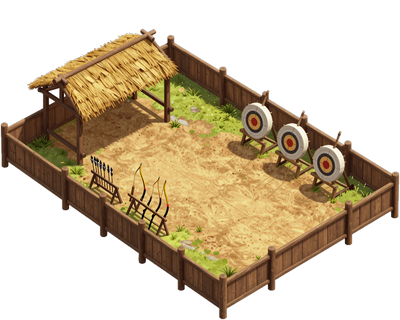
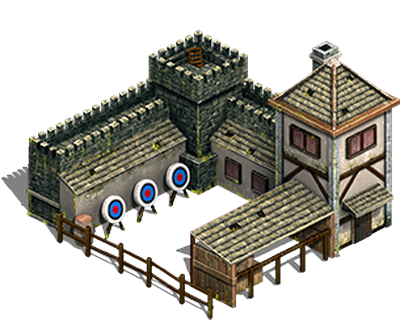
Swap stable and archery range sprites to feudalwars OpenGameArt pack
- Replace project-generated stable/archery_range PNGs with feudalwars
  OpenGameArt sprites and migrate them into the asset manifest/lock.
- Update building health-bar offsets, thumbnail versions, and WorldScene
  cache-busting key to match the new artwork heights.
- Remove the two buildings from generate_buildings_assets.py and update
  credits, README, and tests accordingly.

diff --git a/apps/client/src/components/buildingThumbnails.ts b/apps/client/src/components/buildingThumbnails.ts
@@ -8,16 +8,16 @@ import type { BuildingType } from '@chien-quoc/shared';
  * — which meant a new building could get a correct icon in one place and a 404
  * in the other. One table, one cache-busting version.
  *
- * MIL-01: `STABLE` and `ARCHERY_RANGE` are generated by
- * `scripts/generate_buildings_assets.py` and now ship their own 400x320 sheets.
- * A type absent from this table still renders the vector icon instead, so a
- * future building without art cannot request a file that only 404s.
+ * MIL-01: `STABLE` and `ARCHERY_RANGE` now ship their own 400x320 sheets from
+ * the feudalwars OpenGameArt pack. A type absent from this table still renders
+ * the vector icon instead, so a future building without art cannot request a
+ * file that only 404s.
  */
 export const BUILDING_THUMBNAIL: Partial<Record<BuildingType, string>> = {
   TOWN_CENTER: '/assets/buildings/town_center.png?v=3',
   BARRACKS: '/assets/buildings/barracks.png?v=3',
-  STABLE: '/assets/buildings/stable.png?v=1',
-  ARCHERY_RANGE: '/assets/buildings/archery_range.png?v=1',
+  STABLE: '/assets/buildings/stable.png?v=3',
+  ARCHERY_RANGE: '/assets/buildings/archery_range.png?v=3',
   HOUSE: '/assets/buildings/house.png?v=3',
   FARM: '/assets/buildings/farm.png?v=3',
   TOWER: '/assets/buildings/tower.png?v=3',

diff --git a/apps/client/src/game/render/militaryArt.test.ts b/apps/client/src/game/render/militaryArt.test.ts
@@ -6,7 +6,7 @@ import { SHEET_OFFSET_Y, buildingArt, buildingHpBarY } from './buildingArt.js';
 /**
  * MIL-01 split the military roster across three buildings. The two new types
  * ship on the barracks' 400x320 canvas, so they borrow its lift. Their own
- * generated sheets crop to a different artwork height than the barracks sheet,
+ * OpenGameArt sheets crop to a different artwork height than the barracks sheet,
  * so each keeps its own measured health-bar height; only the procedural
  * fallback is still shared with the barracks.
  */
@@ -14,10 +14,10 @@ describe('military building artwork (MIL-01)', () => {
   const NEW_TYPES = ['STABLE', 'ARCHERY_RANGE'] as const;
 
   // Bar = sheet lift - canvasHeight/2 + topInset - 8, measured from the shipped
-  // PNGs (`scripts/generate_buildings_assets.py` prints the inset).
+  // PNGs (`scripts/assets/build.py --report` prints the inset).
   const OWN_SHEET_BAR: Record<(typeof NEW_TYPES)[number], number> = {
-    STABLE: -222,
-    ARCHERY_RANGE: -236
+    STABLE: -261,
+    ARCHERY_RANGE: -235
   };
 
   for (const type of NEW_TYPES) {

diff --git a/apps/client/src/game/scenes/WorldScene.ts b/apps/client/src/game/scenes/WorldScene.ts
@@ -489,9 +489,9 @@ export class WorldScene extends Phaser.Scene {
     }
 
     // Preload generated building assets with cache-busting version (2x resolution)
-    // v=12: MIL-01 added `stable.png` and `archery_range.png` to the roster. Bump
-    // the key whenever a PNG under public/assets/buildings or /resources changes.
-    const v = 'v=12';
+    // v=13: stable and archery range swapped to the feudalwars OpenGameArt pack.
+    // Bump the key whenever a PNG under public/assets/buildings or /resources changes.
+    const v = 'v=13';
     this.load.image('building_TOWN_CENTER', `/assets/buildings/town_center.png?${v}`);
     this.load.image('building_BARRACKS', `/assets/buildings/barracks.png?${v}`);
     // MIL-01: both military branches now ship their own 400x320 sheet. The

diff --git a/apps/client/src/components/BuildMenu.tsx b/apps/client/src/components/BuildMenu.tsx
@@ -64,9 +64,9 @@ const BUILDINGS: { type: BuildingType; icon: React.ReactNode }[] = [
 ];
 
 /**
- * Optional thumbnails. MIL-01's `STABLE` and `ARCHERY_RANGE` sheets are generated
- * by `scripts/generate_buildings_assets.py`; an absent entry still renders the
- * lucide icon on its own instead of firing a request that can only 404. The
+ * Optional thumbnails. MIL-01's `STABLE` and `ARCHERY_RANGE` sheets ship from
+ * the feudalwars OpenGameArt pack; an absent entry still renders the lucide icon
+ * on its own instead of firing a request that can only 404. The
  * table itself lives in `buildingThumbnails.ts` so the selection panel and the
  * build menu cannot disagree about a path.
  */

diff --git a/apps/client/src/game/render/buildingArt.ts b/apps/client/src/game/render/buildingArt.ts
@@ -143,10 +143,10 @@ const HP_BAR_Y: Partial<Record<BuildingType, number>> = {
   TOWN_CENTER: -358,
   TOWER: -350,
   BARRACKS: -260,
-  // MIL-01: same 400x320 canvas, but each generated sheet crops to its own
-  // artwork height: -264 + topInset (Stable 42, Archery Range 28).
-  STABLE: -222,
-  ARCHERY_RANGE: -236,
+  // MIL-01: same 400x320 canvas, but each OpenGameArt sheet keeps its own
+  // artwork height: -264 + topInset (Stable 3, Archery Range 29).
+  STABLE: -261,
+  ARCHERY_RANGE: -235,
   HOUSE: -188,
   FARM: -100,
   LUMBER_CAMP: -171,

diff --git a/apps/client/src/game/render/assetManifest.test.ts b/apps/client/src/game/render/assetManifest.test.ts
@@ -92,6 +92,8 @@ describe('building health bar heights', () => {
   const MIGRATED: Record<string, keyof typeof SHEET_OFFSET_Y> = {
     'building.town-center': 'TOWN_CENTER',
     'building.barracks': 'BARRACKS',
+    'building.stable': 'STABLE',
+    'building.archery-range': 'ARCHERY_RANGE',
     'building.house': 'HOUSE',
     'building.lumber-camp': 'LUMBER_CAMP'
   };

diff --git a/scripts/generate_buildings_assets.py b/scripts/generate_buildings_assets.py
@@ -110,43 +110,10 @@ BUILDING_SPECS = [
             "Solid pure white background, clean sharp silhouette, game asset ready --ar 1:2 --v 6.0 --style raw"
         ),
     },
-    # MIL-01: the two new military branches. Both are drawn on the barracks'
-    # 400x320 canvas so `buildingArt.ts` can reuse its lift and health-bar height
-    # instead of growing two more hand-measured entries.
-    {
-        "id": "stable",
-        "target_w": 400,
-        "target_h": 320,
-        "gen_w": 1280,
-        "gen_h": 1024,
-        "prompt": (
-            "A 2D RTS game building asset, ancient East Asian cavalry stable and horse paddock, "
-            "strict 2.5D isometric projection viewed from the south-east, 45 degree camera angle, "
-            "three-quarter aerial top-down view. Timber and stone horse barn with a wide open stall door, "
-            "hay bales, a wooden hitching rail, tethering posts with saddles and tack hanging, "
-            "a small dirt exercise yard, a war banner on the roof, Warring States era military horse breeding stable. "
-            "Hand-painted game art, crisp details, strong readable silhouette, warm daylight from the upper left. "
-            "Isolated on a solid pure white background, no cast shadow, no ground plane, no text, no border, "
-            "game asset ready --style raw"
-        ),
-    },
-    {
-        "id": "archery_range",
-        "target_w": 400,
-        "target_h": 320,
-        "gen_w": 1280,
-        "gen_h": 1024,
-        "prompt": (
-            "A 2D RTS game building asset, ancient East Asian archery range training ground, "
-            "strict 2.5D isometric projection viewed from the south-east, 45 degree camera angle, "
-            "three-quarter aerial top-down view. Low timber shooting pavilion with a thatched awning, "
-            "straw target butts with arrows stuck in them, a rack of bows and quivers leaning by a wooden fence, "
-            "a dirt firing lane with a low backstop wall, Warring States era military archery training camp. "
-            "Hand-painted game art, crisp details, strong readable silhouette, warm daylight from the upper left. "
-            "Isolated on a solid pure white background, no cast shadow, no ground plane, no text, no border, "
-            "game asset ready --style raw"
-        ),
-    },
+    # MIL-01's stable and archery range used to be generated here. They now ship
+    # from the feudalwars OpenGameArt pack via `scripts/assets/manifest.json`
+    # (`building.stable`, `building.archery-range`), so this script must not
+    # overwrite them.
 ]
 
 
@@ -227,7 +194,7 @@ def parse_args() -> argparse.Namespace:
     parser.add_argument(
         "--only",
         metavar="IDS",
-        help="comma-separated building ids, e.g. stable,archery_range",
+        help="comma-separated building ids, e.g. farm,tower",
     )
     parser.add_argument(
         "--all",

diff --git a/CREDITS.md b/CREDITS.md
@@ -132,22 +132,24 @@ four pack a soft drop shadow into the sprite itself; `scripts/assets/ops.py`
 again after the fit, because the shadow otherwise drags the measured iso base
 corner ~12–17% off centre and fails `build.py --check`. Nothing is redrawn.
 
-### Medieval Barracks, Medieval Stable and Castle — feudalwars
+### Medieval Barracks, Medieval Stable, Medieval Archery Range and Castle — feudalwars
 
 - **Author:** feudalwars (made for [Feudal Wars](https://feudalwars.net/))
 - **Source:** https://opengameart.org/content/medieval-barracks-isometric-25d,
   https://opengameart.org/content/medieval-stable-isometric-25d,
+  https://opengameart.org/content/medieval-archery-range-isometric-25d,
   https://opengameart.org/content/western-european-castle-isometric-25d
 - **License:** CC0 1.0 (public domain dedication — attribution not required,
   kept here for provenance)
 - **Used for:** `assets/buildings/barracks.png` (barracks),
-  `assets/buildings/lumber_camp.png` (stable, reused as the wood drop-off) and
-  `assets/buildings/town_center.png` (castle).
+  `assets/buildings/stable.png` (stable), `assets/buildings/archery_range.png`
+  (archery range), `assets/buildings/lumber_camp.png` (stable, reused as the
+  wood drop-off) and `assets/buildings/town_center.png` (castle).
 
-**Changes made.** All three are cropped to alpha, scaled to the client's canvas
+**Changes made.** All five are cropped to alpha, scaled to the client's canvas
 and luminance-matched; the stable is reused as the lumber camp because the pack
 has no dedicated drop-off building, and the castle stands in for the town centre
 because the set has no town-hall building. The castle is also mirrored
 horizontally so its gate faces the direction the client's isometric camera
-looks from; the barracks and stable are unmodified apart from crop/scale.
+looks from; the other buildings are unmodified apart from crop/scale.
 

diff --git a/scripts/assets/README.md b/scripts/assets/README.md
@@ -96,11 +96,11 @@ python scripts/process_generated_assets.py --check   # canvas, anchoring, lum, d
 That script needs Pillow and numpy; the OpenGameArt pipeline itself only needs
 Pillow.
 
-`buildings/stable.png` and `buildings/archery_range.png` are also project-original
-generated art (`scripts/generate_buildings_assets.py`). They are not third-party
-and have no upstream URL, so they are pinned under `legacy` like the earlier
-AI-generated farm/tower sprites: rerun `python scripts/assets/build.py --legacy`
-after regenerating them, otherwise `--check` treats the new bytes as a hand edit.
+`buildings/stable.png` and `buildings/archery_range.png` were previously
+project-original generated art; they are now built from the feudalwars
+OpenGameArt pack by `building.stable` / `building.archery-range` in the manifest.
+`scripts/generate_buildings_assets.py` no longer defines them, so running it
+cannot overwrite the shipped third-party sprites.
 
 ## Not migrated
 
